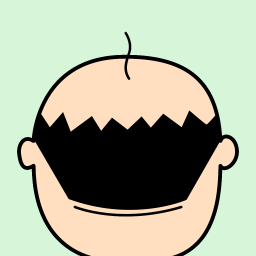
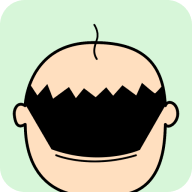
怒り要素追加

diff --git a/public/rensha.js b/public/rensha.js
@@ -12,7 +12,7 @@ game.preload('images/startbutton.png');
 game.preload('images/rankbutton.png');
 game.preload('sounds/start.mp3');
 game.preload('images/finger.png');
-game.preload('images/namiheihead.png');
+game.preload('images/hageoyaji.png');
 game.preload('images/hair.png');
 game.preload('images/hairtwin.png');
 game.preload('images/umiheicombo.png');
@@ -24,7 +24,9 @@ game.preload('images/house.png');
 game.preload('images/bakamon.png');
 game.preload('sounds/gameover.mp3');
 game.preload('sounds/back.mp3');
+game.preload('sounds/Explosion99.mp3');
 game.preload('images/tweetbutton.png');
+game.preload('images/anger.png');
 
 
 //ハイスコア取得
@@ -134,11 +136,11 @@ function startGameScene(tap) {
     gameScene.backgroundColor = "skyblue";
 
     //ハゲ親父
-    var oyaji = new Sprite(640, 1136);
-    oyaji.image = game.assets["images/namiheihead.png"];
-    oyaji.x = 0;
-    oyaji.y = -140;
-    oyaji.tl.scaleTo(0.5, 0);
+    var oyaji = new Sprite(320, 568);
+    oyaji.image = game.assets["images/hageoyaji.png"];
+    oyaji.x = (gameScene.width - oyaji.width) / 2;;
+    oyaji.y = 140;
+
     gameScene.addChild(oyaji);
 
     //髪の毛
@@ -149,6 +151,25 @@ function startGameScene(tap) {
     var hairHeight = hair.height
     hair.originY = hairHeight;
     gameScene.addChild(hair);
+
+    //怒り
+    var ikaru = new Sprite(71, 95);
+    ikaru.image = game.assets["images/anger.png"];
+    ikaru.x = oyaji.x + 200;
+    ikaru.y = oyaji.y + 130;
+    ikaru.tl.fadeTo(0, 1);
+    gameScene.addChild(ikaru);
+
+    var ikari = 1;
+    ikaru.on('enterframe', function (e) {
+        ikari = getRandom(0, 600);
+        console.log(ikari);
+        if (ikari == 0) {
+            ikaru.tl.fadeTo(1, 1);
+            ikaru.tl.fadeTo(0, 60);
+            playSE('sounds/Explosion99.mp3');
+        }
+    });
 
     //指
     var defaultPosY = 0;
@@ -199,7 +220,13 @@ function startGameScene(tap) {
         anger = getRandom(0, 200);
         if (anger == 0) {
             gameoverFlg = true;
-            gameOverScene(count);
+
+            ikaru.tl.fadeTo(1, 1);
+            playSE('sounds/Explosion99.mp3');
+            gameScene.tl.delay(30);
+            gameScene.tl.then(function () {
+                gameOverScene(count);
+            });
         }
 
         //抜ける前
